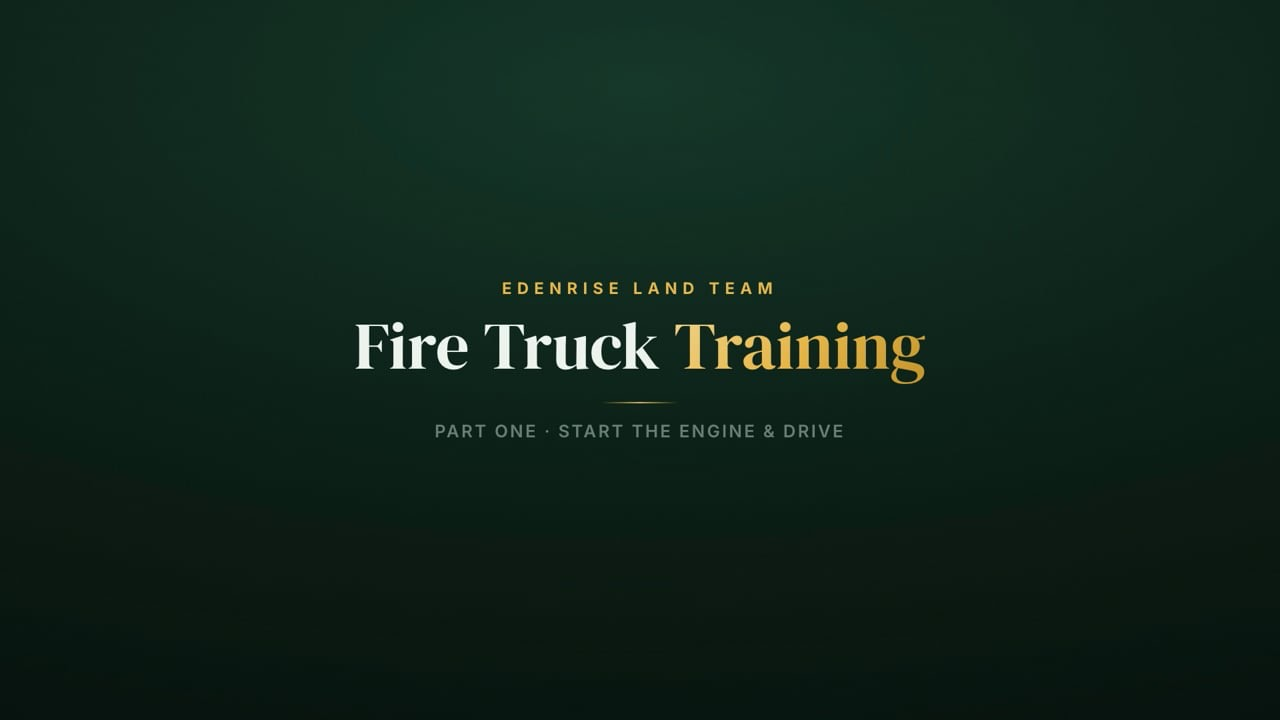
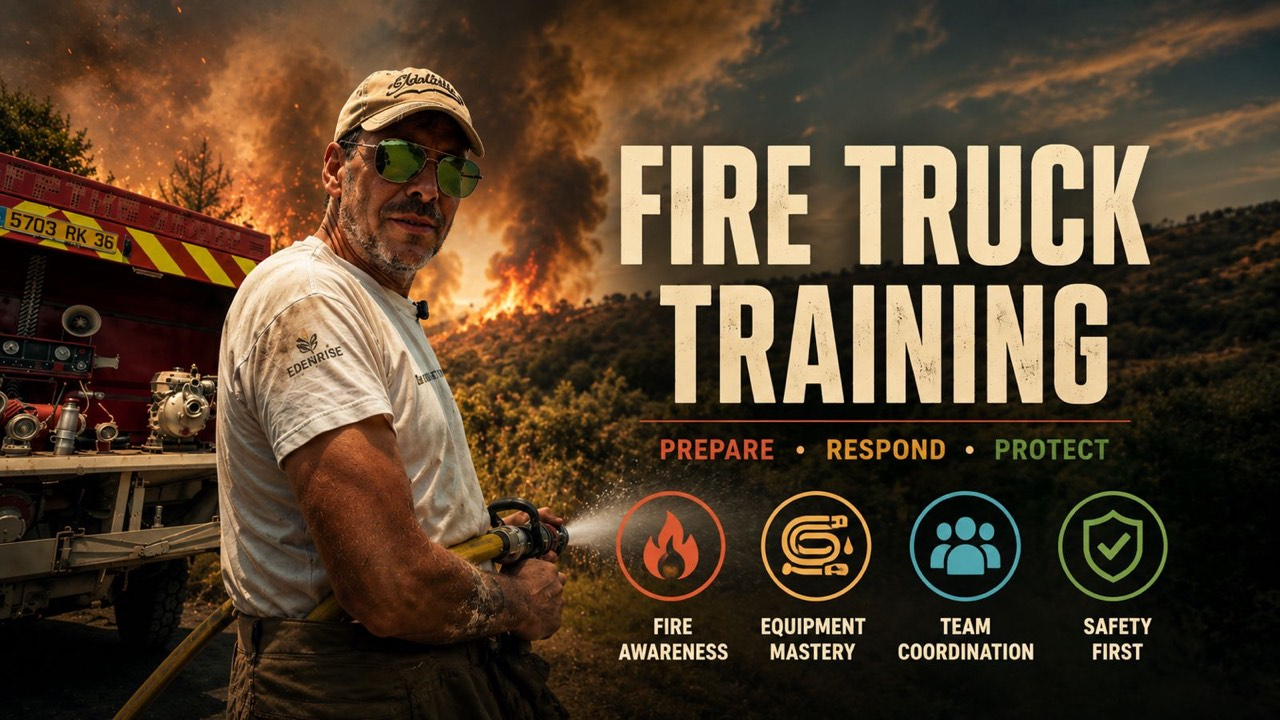
Fire Truck Training: real designed cover (cinematic firefighter/wildfire hero with title + pillars), replacing the auto-pulled video slate; 1280x720 q68

diff --git a/index.html b/index.html
@@ -6,7 +6,7 @@
 <title>EdenRise Academy — Regenerative Living, Learned</title>
 <meta name="description" content="EdenRise Academy — learn regenerative living, land stewardship and the rhythm of the land, guided by adaptive AI learning paths and a personal AI tutor.">
 <meta name="theme-color" content="#0e140f">
-<link rel="icon" type="image/svg+xml" href="favicon.svg?v=edr49">
+<link rel="icon" type="image/svg+xml" href="favicon.svg?v=edr50">
 <meta property="og:title" content="EdenRise Academy — Regenerative Living, Learned">
 <meta property="og:description" content="Where nature leads, the land heals, and stewardship shapes everything we learn.">
 <meta property="og:type" content="website">
@@ -29,7 +29,7 @@
 <link rel="preconnect" href="https://fonts.googleapis.com">
 <link rel="preconnect" href="https://fonts.gstatic.com" crossorigin>
 <link href="https://fonts.googleapis.com/css2?family=Cormorant+Garamond:ital,wght@0,600;0,700;1,600&family=Inter:wght@400;500;600;700&display=swap" rel="stylesheet">
-<link rel="stylesheet" href="styles.css?v=edr49">
+<link rel="stylesheet" href="styles.css?v=edr50">
 <script>try{var m=localStorage.getItem('eden-auth-mode');document.documentElement.setAttribute('data-gate',(m==='guest'||m==='firebase')?'off':'on');}catch(e){document.documentElement.setAttribute('data-gate','on');}</script>
 </head>
 <body>
@@ -253,9 +253,9 @@
 
 <div id="toasts"></div>
 
-<script src="data.js?v=edr49"></script>
-<script src="app.js?v=edr49"></script>
-<script type="module" src="auth.js?v=edr49"></script>
+<script src="data.js?v=edr50"></script>
+<script src="app.js?v=edr50"></script>
+<script type="module" src="auth.js?v=edr50"></script>
 <script>
 /* Safety net: if the Firebase module can't load (blocked CDN, offline), make sure
    the "continue as guest" button still dismisses the gate so no one is stuck. */

diff --git a/sw.js b/sw.js
@@ -1,7 +1,7 @@
 /* EdenRise Academy — offline app shell + cached art
    Strategy: network-first for code/HTML (updates always win, cache is the
    offline fallback); cache-first for media/fonts (immutable-ish). */
-const VERSION = 'edenrise-v49';
+const VERSION = 'edenrise-v50';
 const CORE = ['./', './index.html', './styles.css', './app.js', './data.js', './manifest.json', './favicon.svg', './icon-192.png', './icon-512.png', './og-image.png'];
 
 self.addEventListener('install', e => {